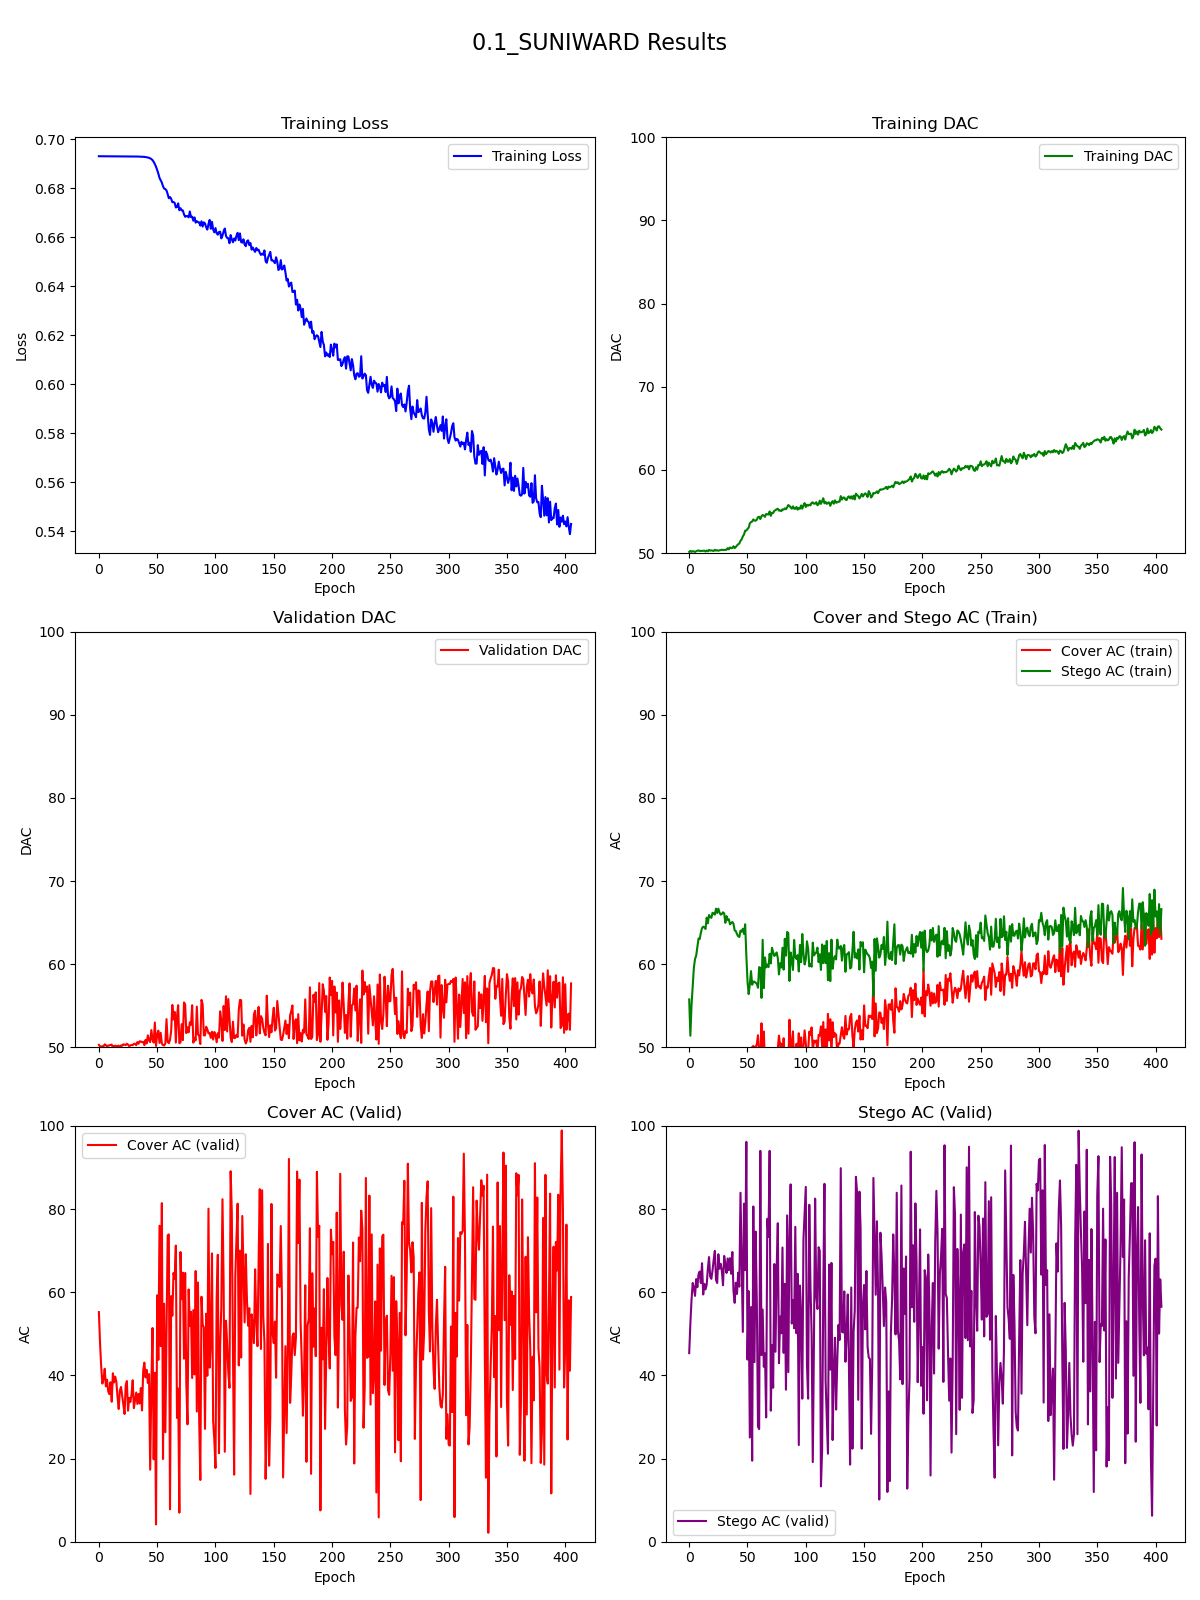
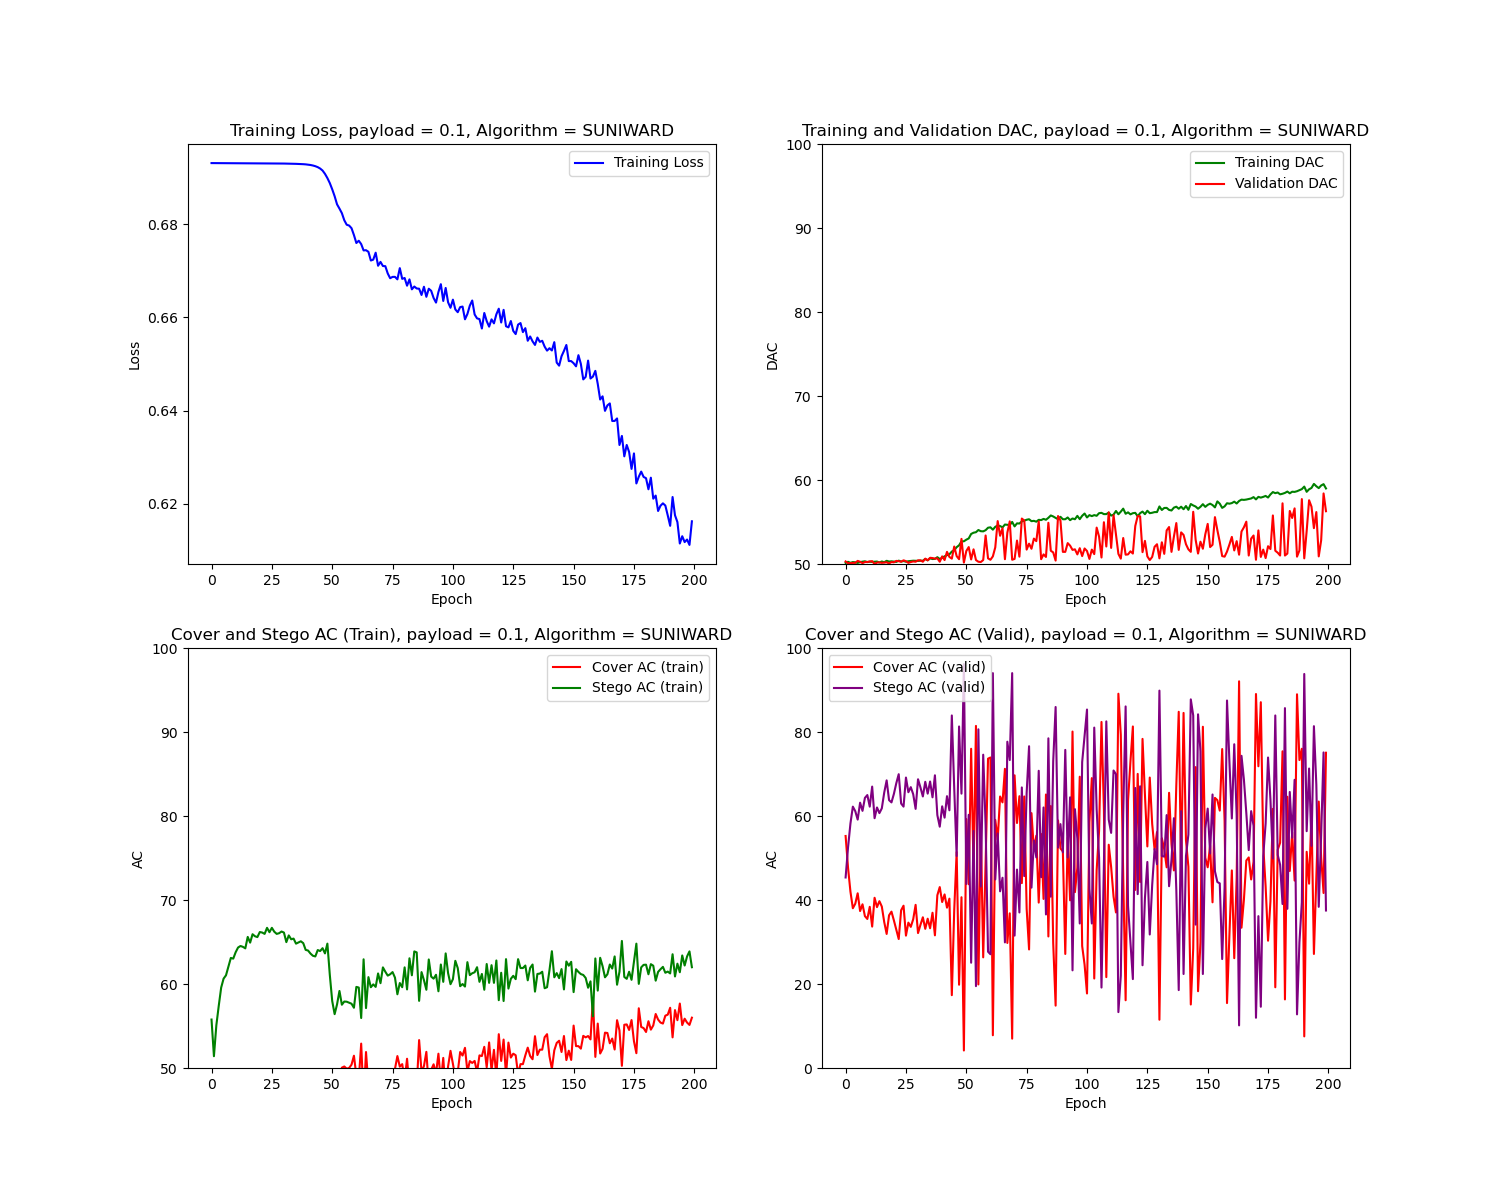
more result

diff --git a/result.py b/result.py
@@ -20,51 +20,40 @@ for i in i_path:
 
         data.close()
 
-        fig, axes = plt.subplots(nrows=3, ncols=2, figsize=(12, 16))
+        fig, axes = plt.subplots(nrows=2, ncols=2, figsize=(15, 12))
 
-        axes[0, 0].plot(loss_train_log, label='Training Loss', color='blue')
-        axes[0, 0].set_title('Training Loss')
+        axes[0, 0].plot(loss_train_log[:200], label='Training Loss', color='blue')
+        axes[0, 0].set_title(f'Training Loss, payload = {i}, Algorithm = {i2}')
         axes[0, 0].set_xlabel('Epoch')
         axes[0, 0].set_ylabel('Loss')
         axes[0, 0].legend()
 
-        axes[0, 1].plot(DAC_train_log, label='Training DAC', color='green')
-        axes[0, 1].set_title('Training DAC')
+        axes[0, 1].plot(DAC_train_log[:200], label='Training DAC', color='green')
+        axes[0, 1].plot(DAC_valid_log[:200], label='Validation DAC', color='red')
+        axes[0, 1].set_title(f'Training and Validation DAC, payload = {i}, Algorithm = {i2}')
         axes[0, 1].set_xlabel('Epoch')
         axes[0, 1].set_ylabel('DAC')
         axes[0, 1].set_ylim(50, 100)
         axes[0, 1].legend()
 
-        axes[1, 0].plot(DAC_valid_log, label='Validation DAC', color='red')
-        axes[1, 0].set_title('Validation DAC')
+        axes[1, 0].plot(cover_AC_train_log[:200], label='Cover AC (train)', color='red')
+        axes[1, 0].plot(stego_AC_train_log[:200], label='Stego AC (train)', color='green')
+        axes[1, 0].set_title(f'Cover and Stego AC (Train), payload = {i}, Algorithm = {i2}')
         axes[1, 0].set_xlabel('Epoch')
-        axes[1, 0].set_ylabel('DAC')
+        axes[1, 0].set_ylabel('AC')
         axes[1, 0].set_ylim(50, 100)
         axes[1, 0].legend()
 
-        axes[1, 1].plot(cover_AC_train_log, label='Cover AC (train)', color='red')
-        axes[1, 1].plot(stego_AC_train_log, label='Stego AC (train)', color='green')
-        axes[1, 1].set_title('Cover and Stego AC (Train)')
+        axes[1, 1].plot(cover_AC_valid_log[:200], label='Cover AC (valid)', color='red')
+        axes[1, 1].plot(stego_AC_valid_log[:200], label='Stego AC (valid)', color='purple')
+        axes[1, 1].set_title(f'Cover and Stego AC (Valid), payload = {i}, Algorithm = {i2}')
         axes[1, 1].set_xlabel('Epoch')
         axes[1, 1].set_ylabel('AC')
-        axes[1, 1].set_ylim(50, 100)
+        axes[1, 1].set_ylim(0, 100)
         axes[1, 1].legend()
 
-        axes[2, 0].plot(cover_AC_valid_log, label='Cover AC (valid)', color='red')
-        axes[2, 0].set_title('Cover AC (Valid)')
-        axes[2, 0].set_xlabel('Epoch')
-        axes[2, 0].set_ylabel('AC')
-        axes[2, 0].set_ylim(0, 100)
-        axes[2, 0].legend()
-
-        axes[2, 1].plot(stego_AC_valid_log, label='Stego AC (valid)', color='purple')
-        axes[2, 1].set_title('Stego AC (Valid)')
-        axes[2, 1].set_xlabel('Epoch')
-        axes[2, 1].set_ylabel('AC')
-        axes[2, 1].set_ylim(0, 100)
-        axes[2, 1].legend()
+        plt.savefig(f'{i}_{i2}_result.png')
 
         fig.suptitle(f'{i}_{i2} Results', fontsize=16)
         fig.tight_layout(rect=[0, 0, 1, 0.96])
 
-        plt.savefig(f'{i}_{i2}_result.png')

diff --git a/crop.py b/crop.py
@@ -1,0 +1,15 @@
+import cv2
+import numpy as np
+import matplotlib.pyplot as plt
+alg = ['HUGO', 'LSB', 'WOW', 'SUNIWARD']
+i_path = [0.1, 0.2, 0.3, 0.4]
+
+for i in i_path:
+    for i2 in alg:
+        file_path = f'{i}_{i2}_result.png'
+        image = cv2.imread(file_path)
+        image_numpy = np.array(image)
+        crop_image = image_numpy[100:1122, 100:1400, :]
+        plt.imshow(crop_image)
+        # plt.show()
+        cv2.imwrite(f'{i}/{i2}result.jpg', crop_image)
